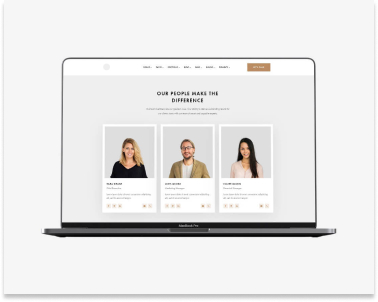
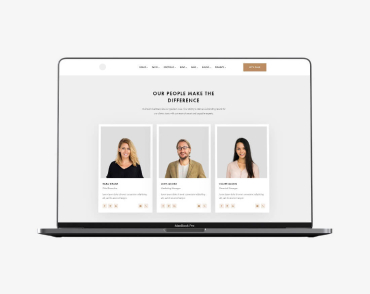
frames and shadow

diff --git a/portfolio.html b/portfolio.html
@@ -78,22 +78,22 @@
         <h3 hidden>Картинки</h3>
         <div class="container">
           <ul class="image-description">
-            <li>
-              <img src="./img/img-portfolio-1.jpg" alt="веб страница" />
+            <li class="border">
+              <img class="photo" src="./img/img-portfolio-1.jpg" alt="веб страница" />
               <div class="site-bar">
                 <h4 class="title-bar">Технокряк</h4>
                 <p class="description-bar">Веб-сайт</p>
               </div>
             </li>
-            <li>
-              <img src="./img/img-portfolio-2.jpg" alt="игра в баскетбол" />
+            <li class="border">
+              <img class="photo" src="./img/img-portfolio-2.jpg" alt="игра в баскетбол" />
               <div class="site-bar">
                 <h4 class="title-bar">Постер New Orlean vs Golden Star</h4>
                 <p class="description-bar">Дизайн</p>
               </div>
             </li>
-            <li>
-              <img
+            <li class="border">
+              <img class="photo"
                 src="./img/img-portfolio-3.jpg"
                 alt="ресторан морепродуктов"
               />
@@ -102,43 +102,43 @@
                 <p class="description-bar">Приложение</p>
               </div>
             </li>
-            <li>
-              <img src="img/img-portfolio-4.jpg" alt="наушники" />
+            <li class="border">
+              <img class="photo" src="img/img-portfolio-4.jpg" alt="наушники" />
               <div class="site-bar">
                 <h4 class="title-bar">Проект Prime</h4>
                 <p class="description-bar">Маркетинг</p>
               </div>
-            </li>
-            <li>
-              <img src="./img/img-portfolio-5.jpg" alt="коробки" />
+            </li class="border">
+            <li class="border">
+              <img class="photo" src="./img/img-portfolio-5.jpg" alt="коробки" />
               <div class="site-bar">
                 <h4 class="title-bar">Проект Boxes</h4>
                 <p class="description-bar">Приложение</p>
               </div>
             </li>
-            <li>
-              <img src="./img/img-portfolio-6.jpg" alt="компьютер" />
+            <li class="border">
+              <img class="photo" src="./img/img-portfolio-6.jpg" alt="компьютер" />
               <div class="site-bar">
                 <h4 class="title-bar">Inspiration has no Borders</h4>
                 <p class="description-bar">Веб-сайт</p>
               </div>
             </li>
-            <li>
-              <img src="./img/img-portfolio-7.jpg" alt="журнал" />
+            <li class="border">
+              <img class="photo" src="./img/img-portfolio-7.jpg" alt="журнал" />
               <div class="site-bar">
                 <h4 class="title-bar">Издание Limited Edition</h4>
                 <p class="description-bar">Дизайн</p>
               </div>
             </li>
-            <li>
-              <img src="./img/img-portfolio-8.jpg" alt="проект" />
+            <li class="border">
+              <img class="photo" src="./img/img-portfolio-8.jpg" alt="проект" />
               <div class="site-bar">
                 <h4 class="title-bar">Проект LAB</h4>
                 <p class="description-bar">Маркетинг</p>
               </div>
             </li>
-            <li>
-              <img src="./img/img-portfolio-9.jpg" alt="работа на компьютере" />
+            <li class="border">
+              <img class="photo" src="./img/img-portfolio-9.jpg" alt="работа на компьютере" />
               <div class="site-bar">
                 <h4 class="title-bar">Growing Business</h4>
                 <p class="description-bar">Приложение</p>

diff --git a/css/style.css b/css/style.css
@@ -7,6 +7,7 @@
   --primary-bg-color: #2F303A;
   --secondary-bg-color: #F5F4FA;
   --accent-text-link-color: rgba(255, 255, 255, 0.6);
+  --border-color: #EEEEEE;
 }
 
 body {
@@ -160,7 +161,7 @@ body {
 .images {
   padding: 0px;
   margin: 0px;
-  margin-bottom: 95px;
+  margin-bottom: 95px; 
   display: flex;
   justify-content: space-between; 
   list-style: none;
@@ -211,18 +212,21 @@ body {
 /* /Картинки - описание деятельности */
 
 /* Наша команда */
+.photo {
+  display: block; 
+}
 .team { 
   background-color: var(--secondary-bg-color);
 }
-
-.team-container {
-  padding-top: 94px; 
-  padding-bottom: 94px;
+.team-bottom {
+  margin-bottom: 0px;
 }
-
 .team-photo {
   width: 270px;
-  height: 260px; 
+  margin-bottom: 94px; 
+  /* height: 260px;  */
+  box-shadow: 0px 1px 3px rgba(0, 0, 0, 0.12), 0px 1px 1px rgba(0, 0, 0, 0.14), 0px 2px 1px rgba(0, 0, 0, 0.2);
+ border-radius: 0px 0px 4px 4px;
 }
 
 .text {
@@ -332,7 +336,16 @@ body {
   flex-wrap: wrap;
   justify-content: space-between;   
 }
-
+.border {
+  padding: 0px;
+  margin: 0px;
+  margin-bottom: 30px;
+  background-color: var(--secondary-text-color);
+  border: 1px solid var(--border-color);
+}
+.border:nth-last-child(-n+3) {
+  margin-bottom: 94px;
+}
 .image-description .title-bar {
   font-weight: bold;
   font-size: 18px;

diff --git a/index.html b/index.html
@@ -135,9 +135,9 @@
 
       <!-- Наша команда -->
       <section class="team">
-        <div class="container team-container">
+        <div class="container">
           <h3 class="titles">Наша команда</h3>
-          <ul class="images">
+          <ul class="images team-bottom">
             <li class="team-photo">
               <img
                 class="photo"
